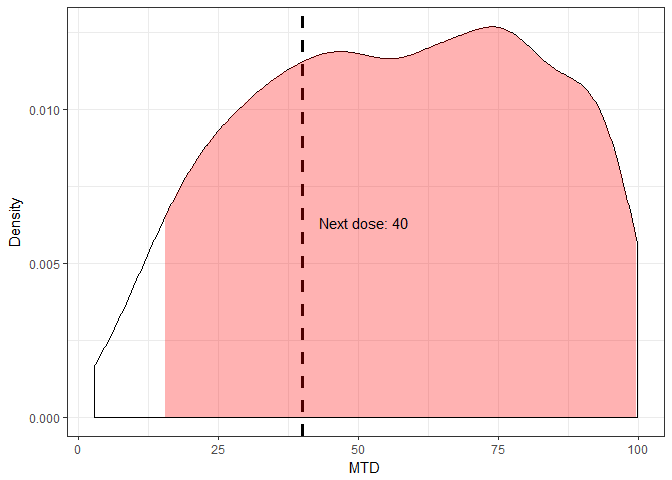
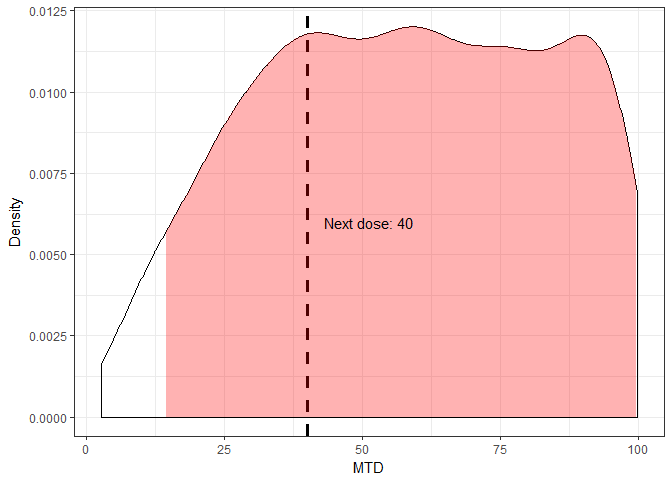
Release v0.1.

diff --git a/README.md b/README.md
@@ -48,11 +48,11 @@ summary(test)
 #> 
 #> Next Dose
 #>   Estimate         95% HPD
-#> 1       40 (15.43 ; 99.91)
+#> 1       40 (14.26 ; 99.84)
 #> 
 #> P(DLT| next dose)
-#>   Estimate       95% HPD
-#> 1     0.29 (0.02 ; 0.57)
+#>   Estimate      95% HPD
+#> 1     0.29 (0.04 ; 0.6)
 plot(test)
 ```
 
